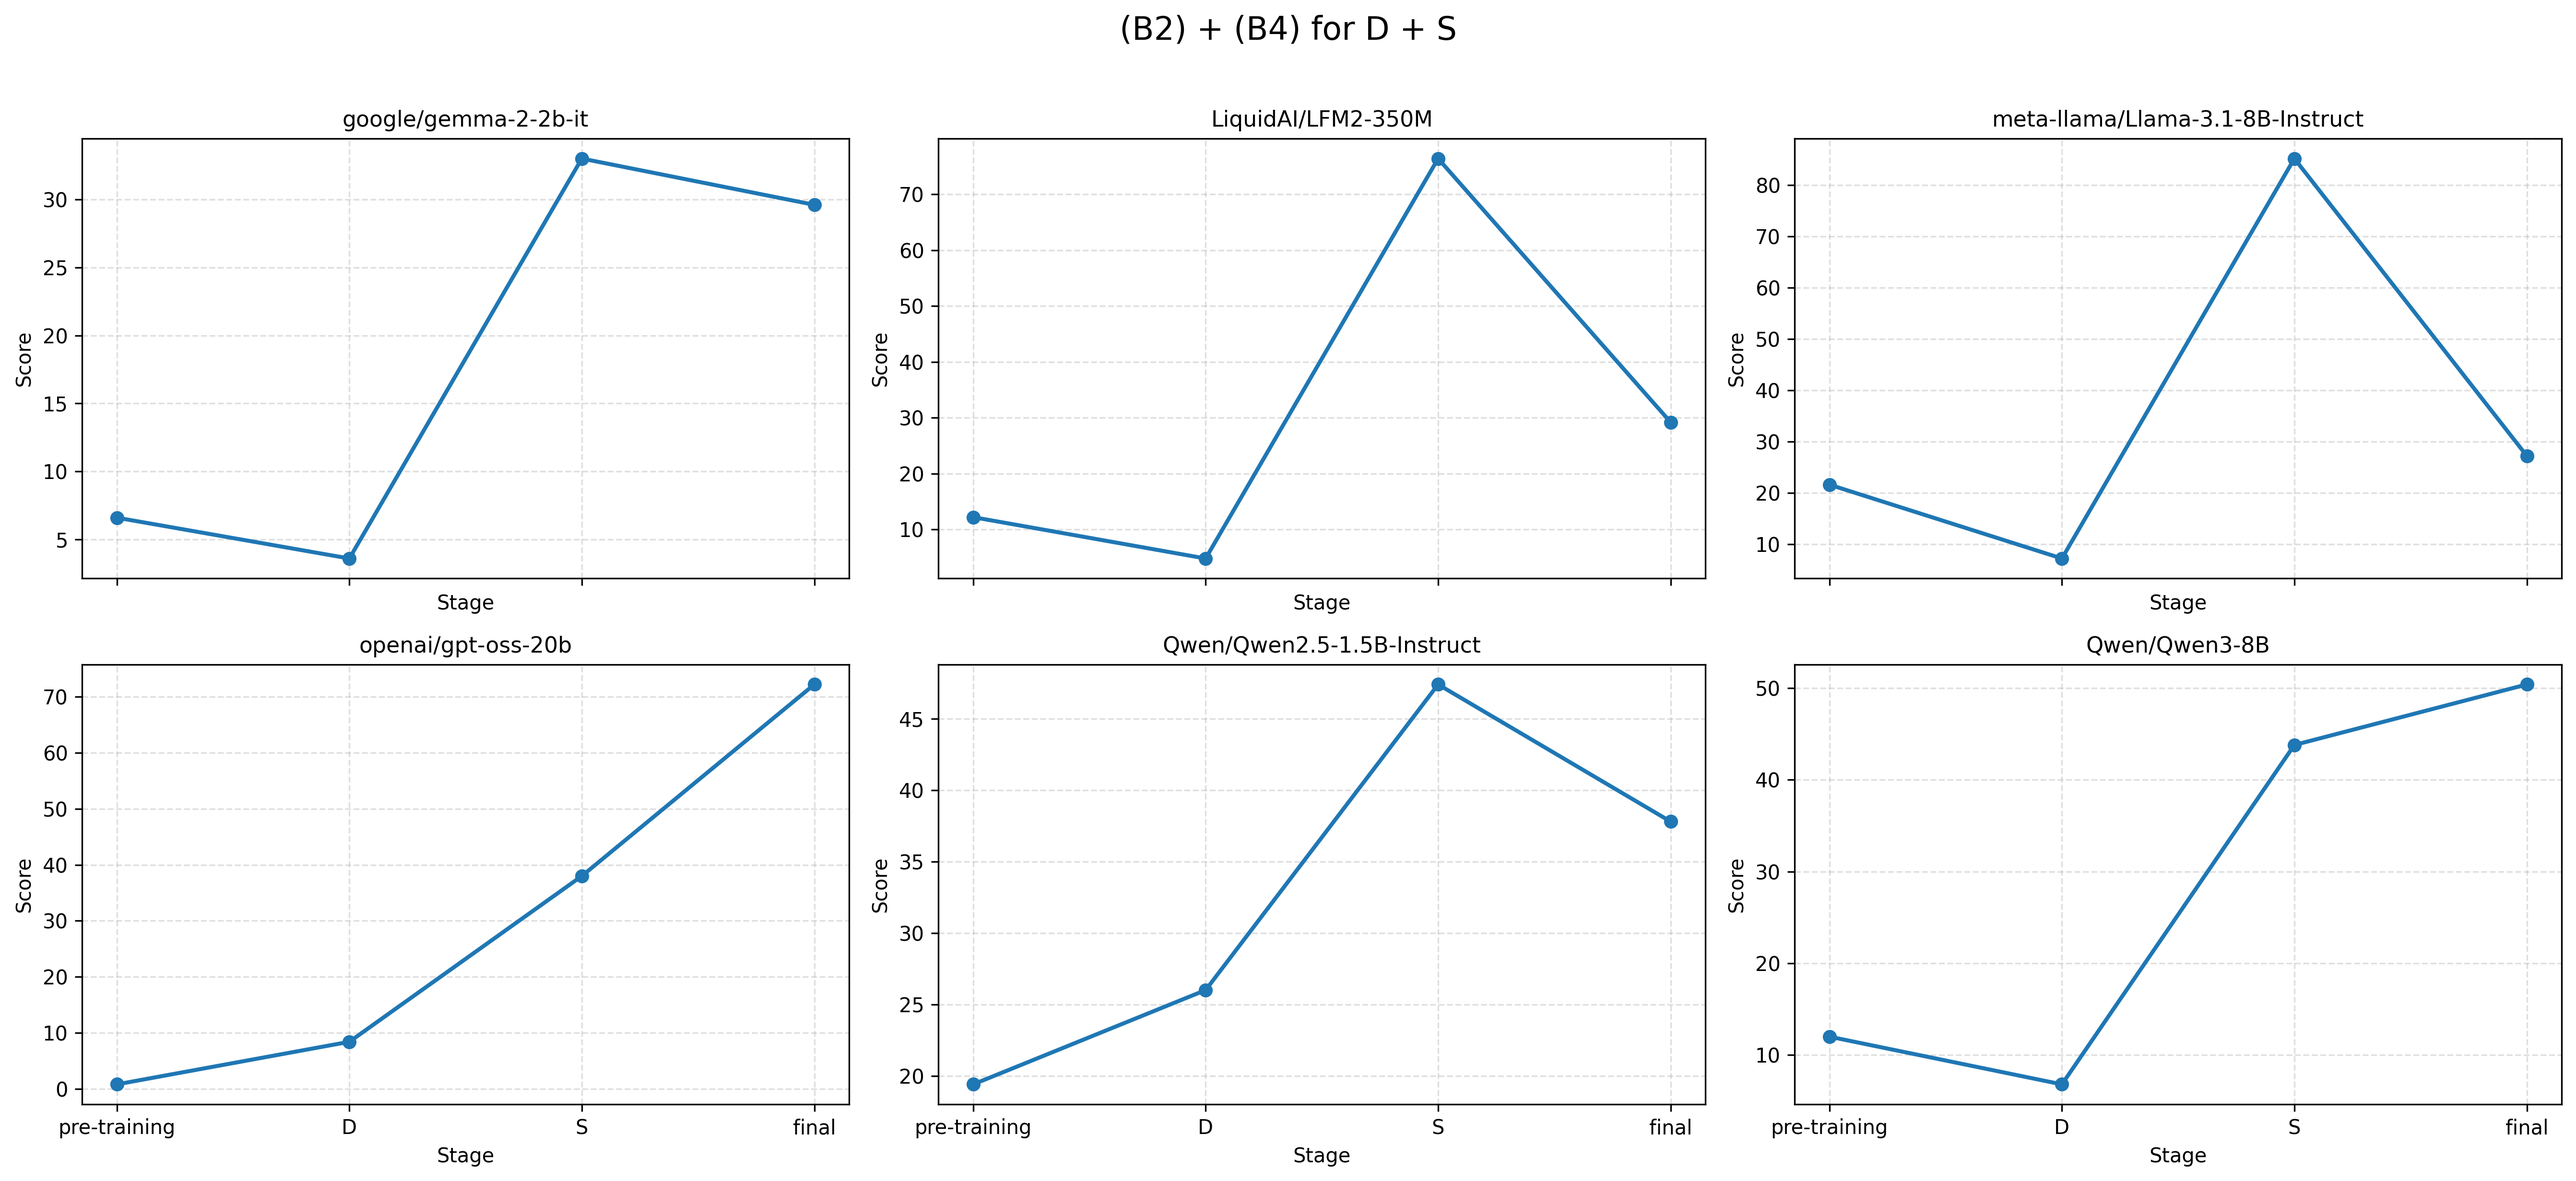
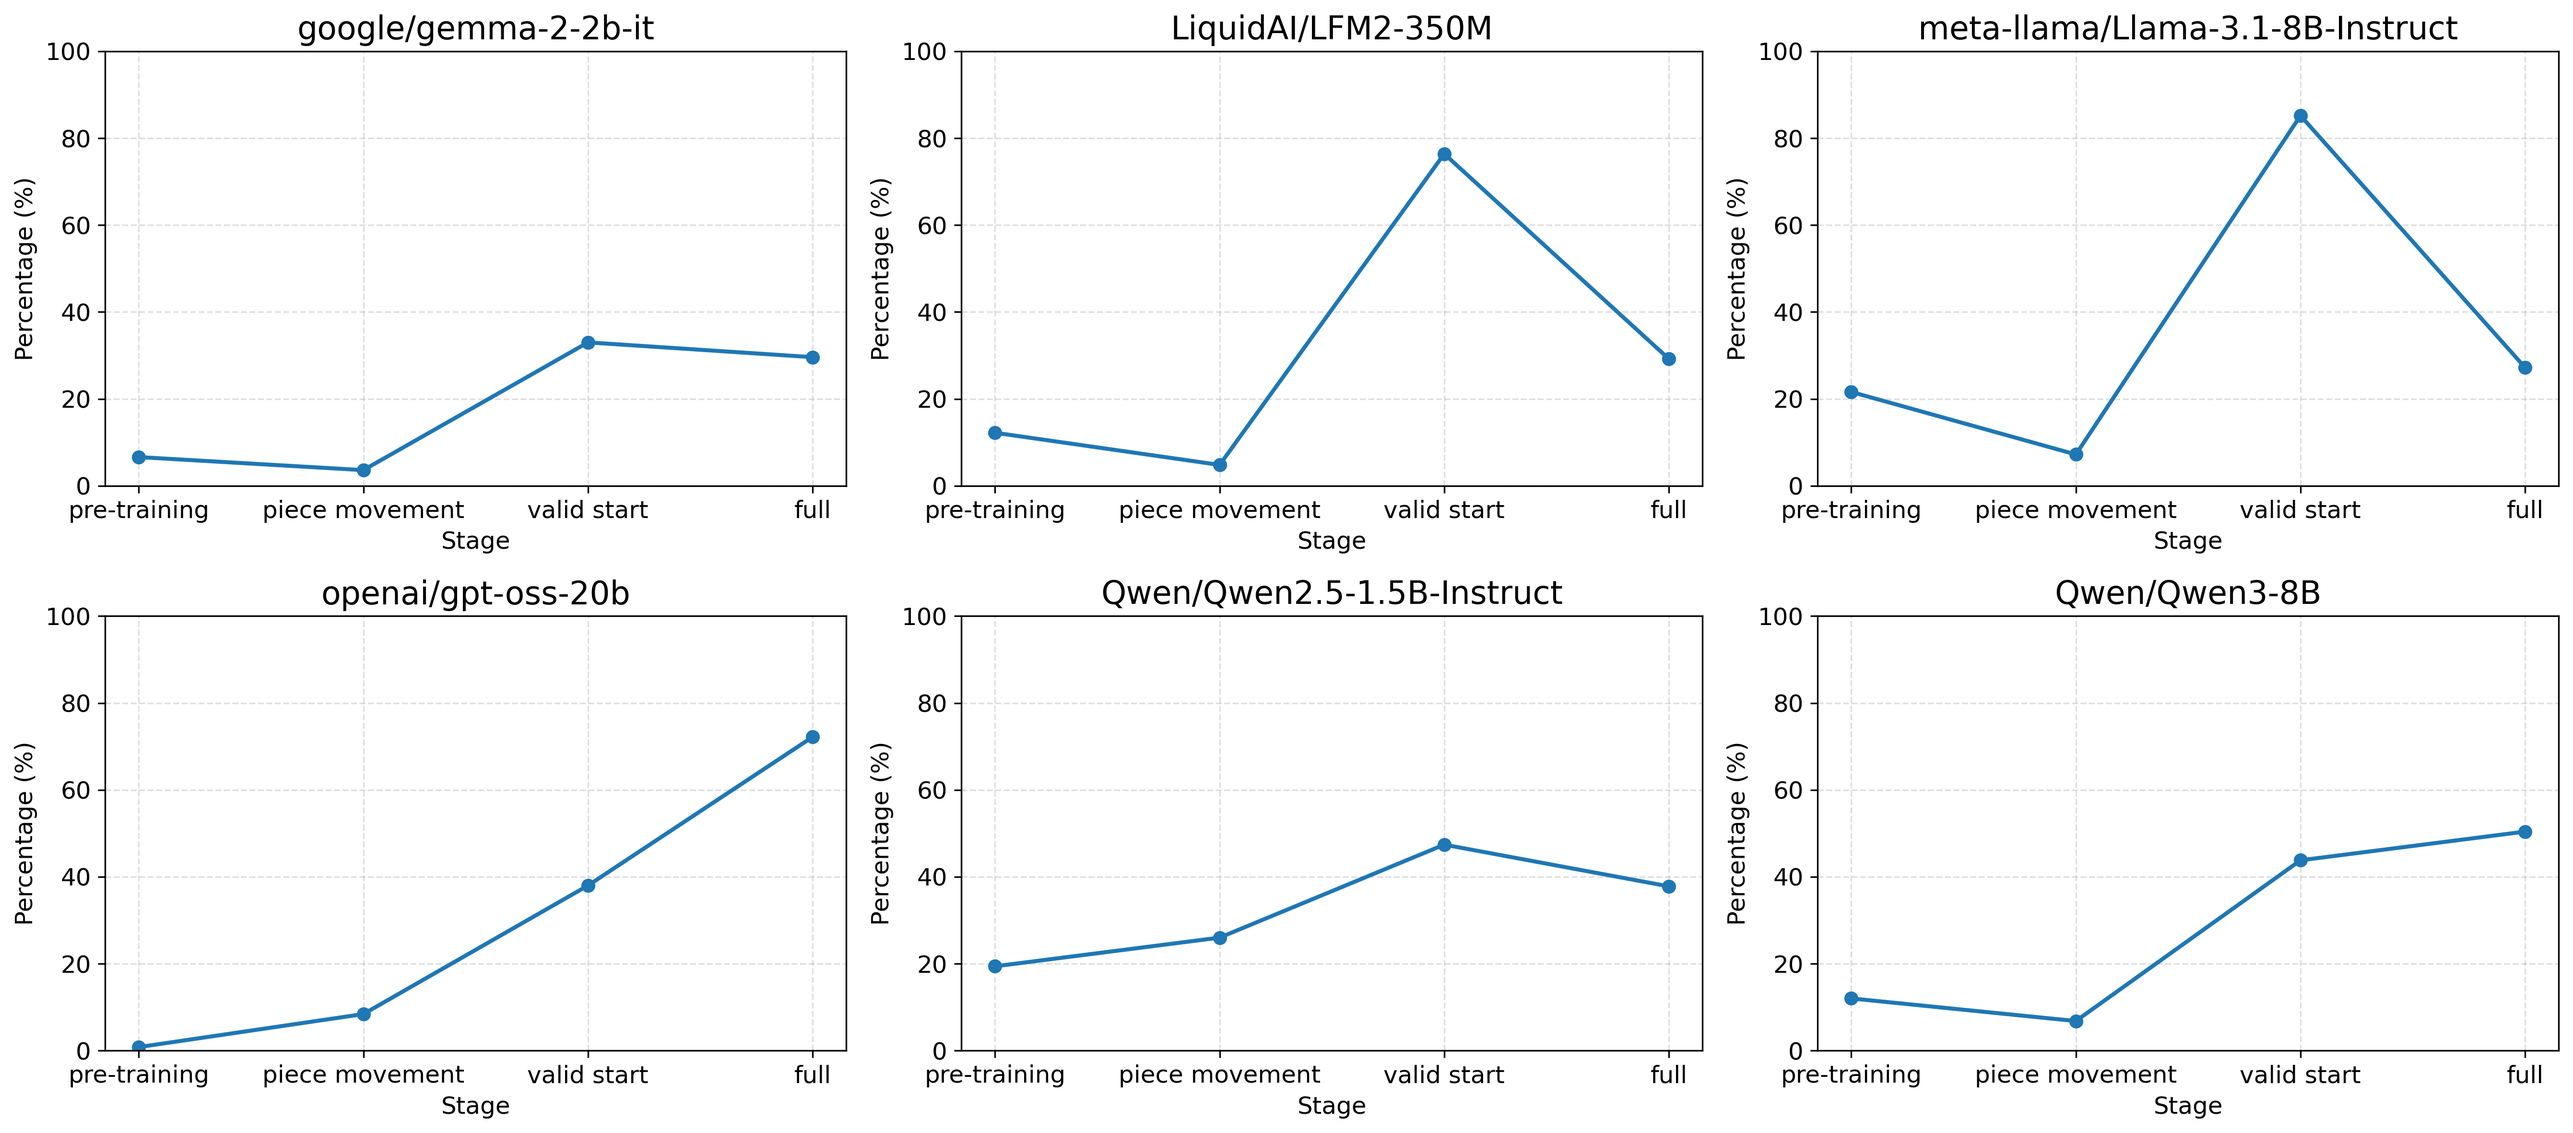
Adjust graph script

diff --git a/cl2-xiangqi/graph.py b/cl2-xiangqi/graph.py
@@ -13,30 +13,33 @@ def main():
     y_4 = [y / 5 for y in y_4]
     y_5 = [y / 5 for y in y_5]
     y_6 = [y / 5 for y in y_6]
-    x = ["pre-training", "D", "S", "final"]
+    x = ["pre-training", "piece movement", "valid start", "full"]
     title_1 = "google/gemma-2-2b-it"
     title_2 = "LiquidAI/LFM2-350M"
     title_3 = "meta-llama/Llama-3.1-8B-Instruct"
     title_4 = "openai/gpt-oss-20b"
     title_5 = "Qwen/Qwen2.5-1.5B-Instruct"
     title_6 = "Qwen/Qwen3-8B"
-    overall_title = "(C3) for D + S"
     fig_name = "C-DS.png"
 
     y_values = [y_1, y_2, y_3, y_4, y_5, y_6]
     titles = [title_1, title_2, title_3, title_4, title_5, title_6]
 
-    fig, axes = plt.subplots(2, 3, figsize=(18, 8), sharex=True)
+    fig, axes = plt.subplots(2, 3, figsize=(18, 8))
     axes = axes.flatten()
 
     for ax, y, title in zip(axes, y_values, titles):
+        # Increase font size of x and y labels
+        ax.tick_params(axis='x', labelsize=12)
+        ax.tick_params(axis='y', labelsize=12)
         ax.plot(x, y, marker="o", linewidth=2)
-        ax.set_title(title, fontsize=11)
-        ax.set_xlabel("Stage")
-        ax.set_ylabel("Score")
+        ax.set_title(title, fontsize=16)
+        ax.set_xlabel("Stage", fontsize=12)
+        ax.set_ylabel("Percentage (%)", fontsize=12)
+        # y range: 0 to 100
+        ax.set_ylim(0, 100)
         ax.grid(True, linestyle="--", alpha=0.4)
 
-    fig.suptitle(overall_title, fontsize=16, y=1.02)
     plt.tight_layout()
     plt.savefig(fig_name, dpi=300, bbox_inches="tight")
 
